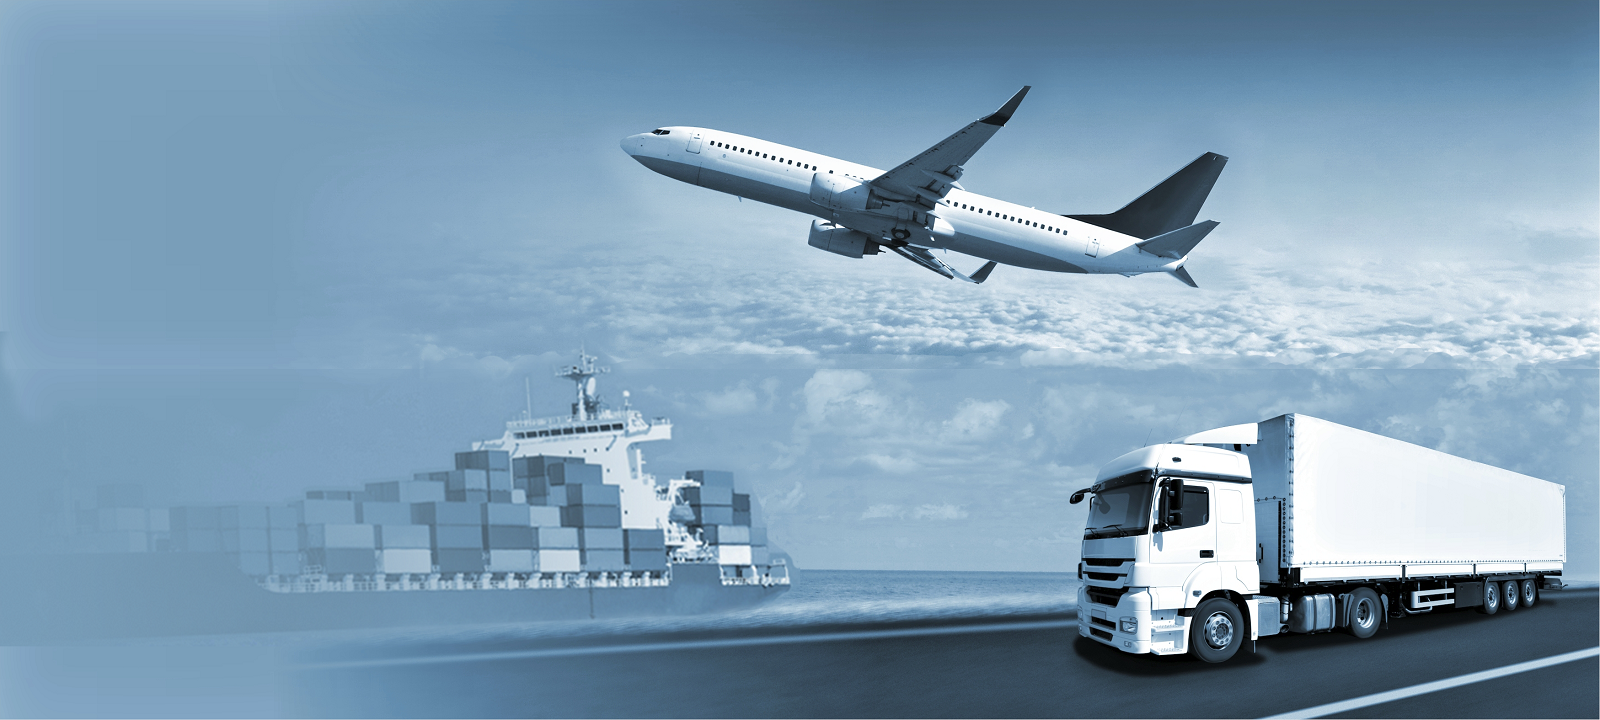
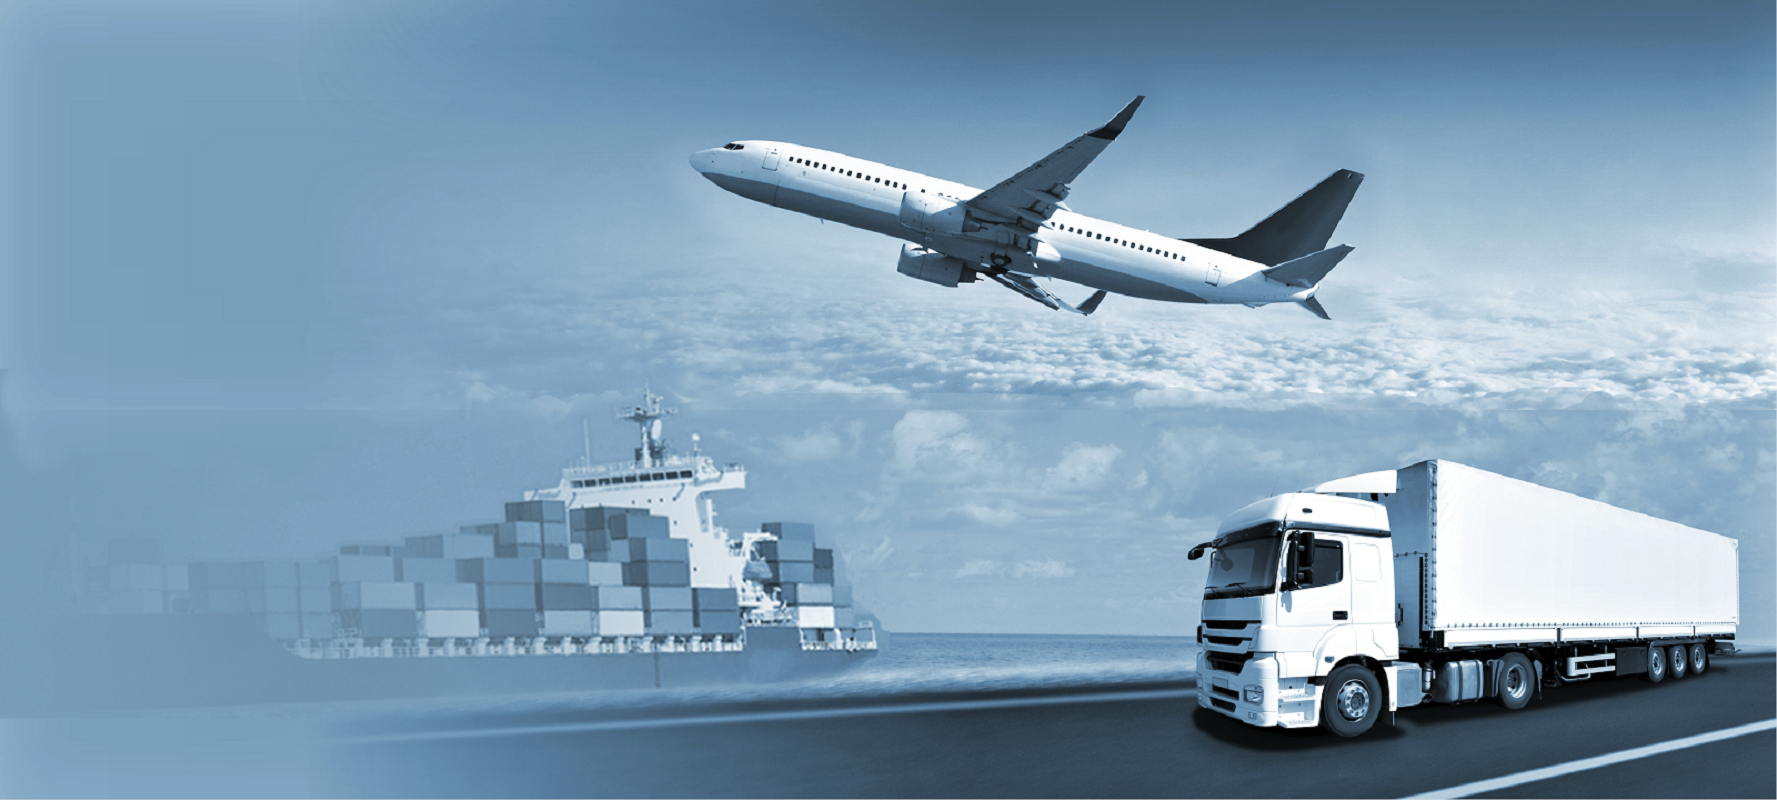
""

diff --git a/index.html b/index.html
@@ -50,7 +50,7 @@
 				<div class="container">
 					<div class="row nav-wrapper">
 						<div class="col-md-6 col-sm-6 col-xs-6 text-left">
-							<a href="#"><img src="img/path4140.png" alt="Boxify Logo"></a>
+							<a href="#"><img src="img/path4140.png" width="150" height="69" alt="Boxify Logo"></a>
 						</div>
 						<div class="col-md-6 col-sm-6 col-xs-6 text-right navicon">
 							<p>MENU</p><a id="trigger-overlay" class="nav_slide_button nav-toggle" href="#"><span></span></a>

diff --git a/css/styles.css b/css/styles.css
@@ -580,7 +580,7 @@ Hero
 .hero {
     position: relative;
     padding: 60px 0 60px 0;
-    min-height: 720px;
+    min-height: 800px;
     background: rgb(40, 70, 102) url('../img/logistics-hq.png') no-repeat center center;
     background-size: cover;
     color: #fff;
